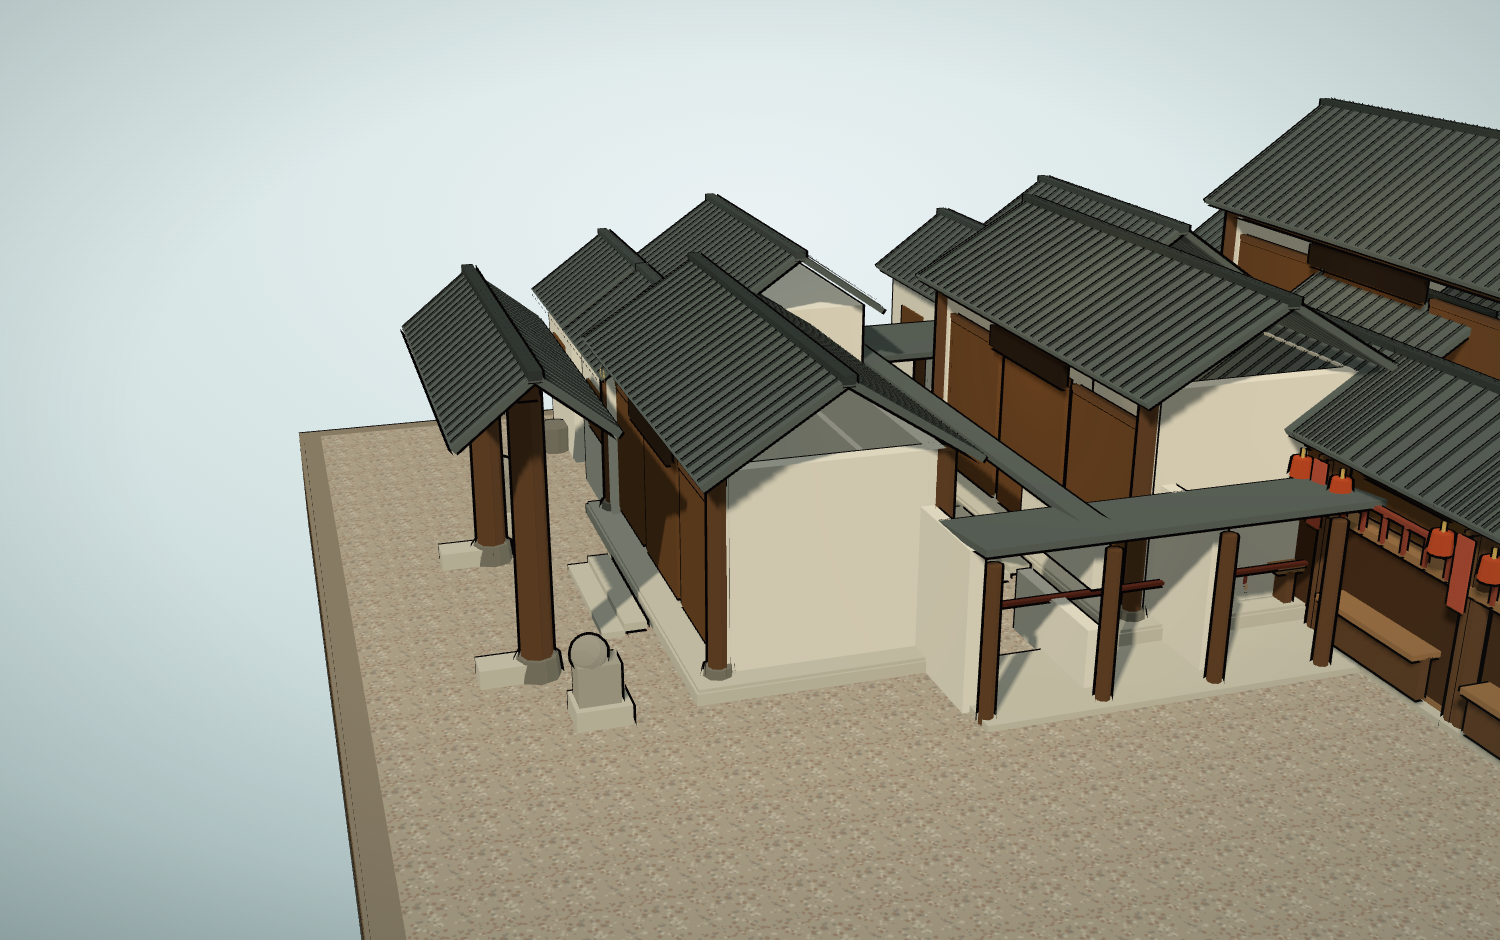
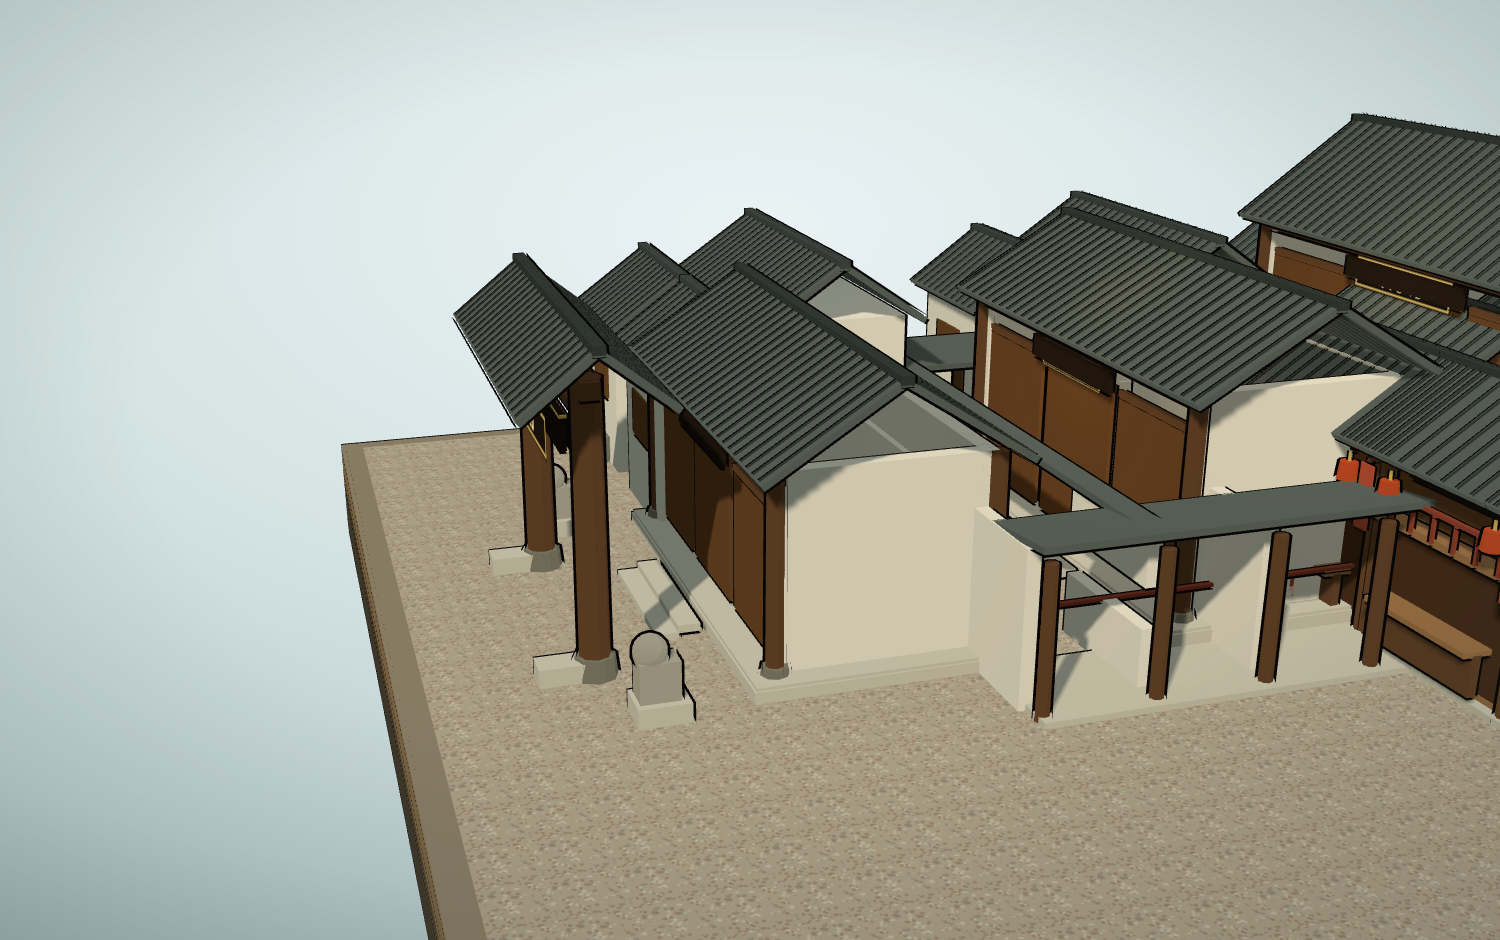
fix(lijiang): 匾额改不透明底金框、降到横梁下并让出瓦檐

diff --git a/docs/lijiang.html b/docs/lijiang.html
@@ -18554,7 +18554,7 @@ function gdPaving(g) {
 function gdTextTex(txt) {
   return canvasTex(512, 128, function (c, w, h) {
     c.clearRect(0, 0, w, h);
-    c.fillStyle = '#e6c978';
+    c.fillStyle = '#f2d88e';
     c.font = 'bold 82px "KaiTi","STKaiti","Microsoft YaHei",serif';
     c.textAlign = 'center';
     c.textBaseline = 'middle';
@@ -19078,7 +19078,7 @@ function tlPeople(b) {
 function tlTextTex(txt) {
   return canvasTex(512, 128, function (c, w, h) {
     c.clearRect(0, 0, w, h);
-    c.fillStyle = '#e6c978';
+    c.fillStyle = '#f2d88e';
     c.font = 'bold 78px "KaiTi","STKaiti","Microsoft YaHei",serif';
     c.textAlign = 'center';
     c.textBaseline = 'middle';
@@ -19444,9 +19444,9 @@ function ljMansion(b) {
   b.box('ljWoodD', 5.2, 0.16, 0.26, CX, LJ_GY + 4.74, PZ);
   /* 双坡瓦顶 */
   /* 牌坊顶直接调硬山函数：手拼双坡的尺寸/角度很难一次对准 */
-  gdGableRoof(b, 'ljTile', 'ljRidge', CX, PZ, 7.0, 2.5, LJ_GY + 4.75, LJ_GY + 5.75, 'z');
-  b.box('ljSign', 2.6, 0.62, 0.12, CX, LJ_GY + 4.90, PZ + 0.19);
-  b.box('ljGold', 2.72, 0.05, 0.14, CX, LJ_GY + 5.22, PZ + 0.19);
+  gdGableRoof(b, 'ljTile', 'ljRidge', CX, PZ, 7.0, 2.5, LJ_GY + 5.15, LJ_GY + 6.15, 'z');
+  b.box('ljSign', 2.9, 0.66, 0.12, CX, LJ_GY + 4.18, PZ + 0.20);
+  b.box('ljGold', 3.02, 0.05, 0.14, CX, LJ_GY + 4.48, PZ + 0.20);
   /* 石狮 */
   [[-4.4, 17.9], [4.4, 17.9]].forEach(function (q) {
     b.box('ljStoneL', 0.78, 0.46, 0.92, CX + q[0], LJ_GY + 0.25, q[1]);
@@ -19592,23 +19592,29 @@ function ljPeople(b) {
 /* ---------------- 匾额 / 灯光 / 总装 ---------------- */
 function ljTextTex(txt) {
   return canvasTex(512, 128, function (c, w, h) {
-    c.clearRect(0, 0, w, h);
-    c.fillStyle = '#e6c978';
-    c.font = 'bold 76px "KaiTi","STKaiti","Microsoft YaHei",serif';
+    /* 不透明深底 + 金框 + 金字：透明底在 headless 下容易整块不见 */
+    c.fillStyle = '#17110c';
+    c.fillRect(0, 0, w, h);
+    c.strokeStyle = '#d8b35e';
+    c.lineWidth = 7;
+    c.strokeRect(10, 10, w - 20, h - 20);
+    c.fillStyle = '#f2d88e';
+    c.font = 'bold 88px "Microsoft YaHei","SimHei",sans-serif';
     c.textAlign = 'center';
     c.textBaseline = 'middle';
-    c.fillText(txt, w / 2, h / 2 + 2);
+    c.fillText(txt, w / 2, h / 2 + 3);
   });
 }
 
 function ljPlaque(g, txt, x, y, z, w, h, ry) {
   const tex = ljTextTex(txt);
+  tex.needsUpdate = true;
   const m = new T.Mesh(new T.PlaneGeometry(w, h), new T.MeshBasicMaterial({
-    map: tex, transparent: true, depthWrite: false
+    map: tex, side: T.DoubleSide
   }));
   m.position.set(x, y, z);
   m.rotation.y = ry || 0;
-  g.add(m);
+    g.add(m);
 }
 
 function ljLights() {
@@ -19668,7 +19674,11 @@ function buildLjAll() {
   ljPaving(g);
 
   ljPlaque(g, '四方街', -7.0, LJ_GY + 3.30, -7.45, 1.6, 0.40, 0);
-  ljPlaque(g, '木府', -16.0, LJ_GY + 0.30 + 4.30, 16.78, 1.9, 0.44, 0);
+  /* 牌坊匾：往外挪 11 厘米，避开瓦顶檐影 */
+  ljPlaque(g, '木府', -16.0, LJ_GY + 4.20, 18.6 + 0.55, 3.6, 0.80, 0);
+  /* 仪门与正殿各挂一块 */
+  ljPlaque(g, '仪门', -16.0, 4.72, 6.0 + 2.2 + 0.16, 2.4, 0.56, 0);
+  ljPlaque(g, '议事厅', -16.0, 5.86, -2.0 + 2.6 + 0.16, 3.0, 0.68, 0);
 
   /* 沿河六棵垂柳：独立组才能摆 */
   const willows = [];

diff --git a/src/scene.js b/src/scene.js
@@ -18421,7 +18421,7 @@ function gdPaving(g) {
 function gdTextTex(txt) {
   return canvasTex(512, 128, function (c, w, h) {
     c.clearRect(0, 0, w, h);
-    c.fillStyle = '#e6c978';
+    c.fillStyle = '#f2d88e';
     c.font = 'bold 82px "KaiTi","STKaiti","Microsoft YaHei",serif';
     c.textAlign = 'center';
     c.textBaseline = 'middle';
@@ -18945,7 +18945,7 @@ function tlPeople(b) {
 function tlTextTex(txt) {
   return canvasTex(512, 128, function (c, w, h) {
     c.clearRect(0, 0, w, h);
-    c.fillStyle = '#e6c978';
+    c.fillStyle = '#f2d88e';
     c.font = 'bold 78px "KaiTi","STKaiti","Microsoft YaHei",serif';
     c.textAlign = 'center';
     c.textBaseline = 'middle';
@@ -19311,9 +19311,9 @@ function ljMansion(b) {
   b.box('ljWoodD', 5.2, 0.16, 0.26, CX, LJ_GY + 4.74, PZ);
   /* 双坡瓦顶 */
   /* 牌坊顶直接调硬山函数：手拼双坡的尺寸/角度很难一次对准 */
-  gdGableRoof(b, 'ljTile', 'ljRidge', CX, PZ, 7.0, 2.5, LJ_GY + 4.75, LJ_GY + 5.75, 'z');
-  b.box('ljSign', 2.6, 0.62, 0.12, CX, LJ_GY + 4.90, PZ + 0.19);
-  b.box('ljGold', 2.72, 0.05, 0.14, CX, LJ_GY + 5.22, PZ + 0.19);
+  gdGableRoof(b, 'ljTile', 'ljRidge', CX, PZ, 7.0, 2.5, LJ_GY + 5.15, LJ_GY + 6.15, 'z');
+  b.box('ljSign', 2.9, 0.66, 0.12, CX, LJ_GY + 4.18, PZ + 0.20);
+  b.box('ljGold', 3.02, 0.05, 0.14, CX, LJ_GY + 4.48, PZ + 0.20);
   /* 石狮 */
   [[-4.4, 17.9], [4.4, 17.9]].forEach(function (q) {
     b.box('ljStoneL', 0.78, 0.46, 0.92, CX + q[0], LJ_GY + 0.25, q[1]);
@@ -19459,23 +19459,29 @@ function ljPeople(b) {
 /* ---------------- 匾额 / 灯光 / 总装 ---------------- */
 function ljTextTex(txt) {
   return canvasTex(512, 128, function (c, w, h) {
-    c.clearRect(0, 0, w, h);
-    c.fillStyle = '#e6c978';
-    c.font = 'bold 76px "KaiTi","STKaiti","Microsoft YaHei",serif';
+    /* 不透明深底 + 金框 + 金字：透明底在 headless 下容易整块不见 */
+    c.fillStyle = '#17110c';
+    c.fillRect(0, 0, w, h);
+    c.strokeStyle = '#d8b35e';
+    c.lineWidth = 7;
+    c.strokeRect(10, 10, w - 20, h - 20);
+    c.fillStyle = '#f2d88e';
+    c.font = 'bold 88px "Microsoft YaHei","SimHei",sans-serif';
     c.textAlign = 'center';
     c.textBaseline = 'middle';
-    c.fillText(txt, w / 2, h / 2 + 2);
+    c.fillText(txt, w / 2, h / 2 + 3);
   });
 }
 
 function ljPlaque(g, txt, x, y, z, w, h, ry) {
   const tex = ljTextTex(txt);
+  tex.needsUpdate = true;
   const m = new T.Mesh(new T.PlaneGeometry(w, h), new T.MeshBasicMaterial({
-    map: tex, transparent: true, depthWrite: false
+    map: tex, side: T.DoubleSide
   }));
   m.position.set(x, y, z);
   m.rotation.y = ry || 0;
-  g.add(m);
+    g.add(m);
 }
 
 function ljLights() {
@@ -19535,7 +19541,11 @@ function buildLjAll() {
   ljPaving(g);
 
   ljPlaque(g, '四方街', -7.0, LJ_GY + 3.30, -7.45, 1.6, 0.40, 0);
-  ljPlaque(g, '木府', -16.0, LJ_GY + 0.30 + 4.30, 16.78, 1.9, 0.44, 0);
+  /* 牌坊匾：往外挪 11 厘米，避开瓦顶檐影 */
+  ljPlaque(g, '木府', -16.0, LJ_GY + 4.20, 18.6 + 0.55, 3.6, 0.80, 0);
+  /* 仪门与正殿各挂一块 */
+  ljPlaque(g, '仪门', -16.0, 4.72, 6.0 + 2.2 + 0.16, 2.4, 0.56, 0);
+  ljPlaque(g, '议事厅', -16.0, 5.86, -2.0 + 2.6 + 0.16, 3.0, 0.68, 0);
 
   /* 沿河六棵垂柳：独立组才能摆 */
   const willows = [];

diff --git a/README.md b/README.md
@@ -480,7 +480,7 @@ CT_ANIM.push(function (t) {
 - **垂柳**：树干 + 4 根主枝 + 36 根垂条（0.075 见方）+ 两团树冠球。
   只有垂条没有树冠，读出来就是一束竹竿。
 
-定稿 101 mesh / 84844 三角，`magenta:[] / errors:[]`；21 套全量回归全绿。
+定稿 103 mesh / 84847 三角，`magenta:[] / errors:[]`；21 套全量回归全绿。
 ### 人物：刻意几何化的积木人
 
 拟真路线（球头 + 锥台躯干 + 分段圆柱四肢）在这套 toon + 描边风格里
